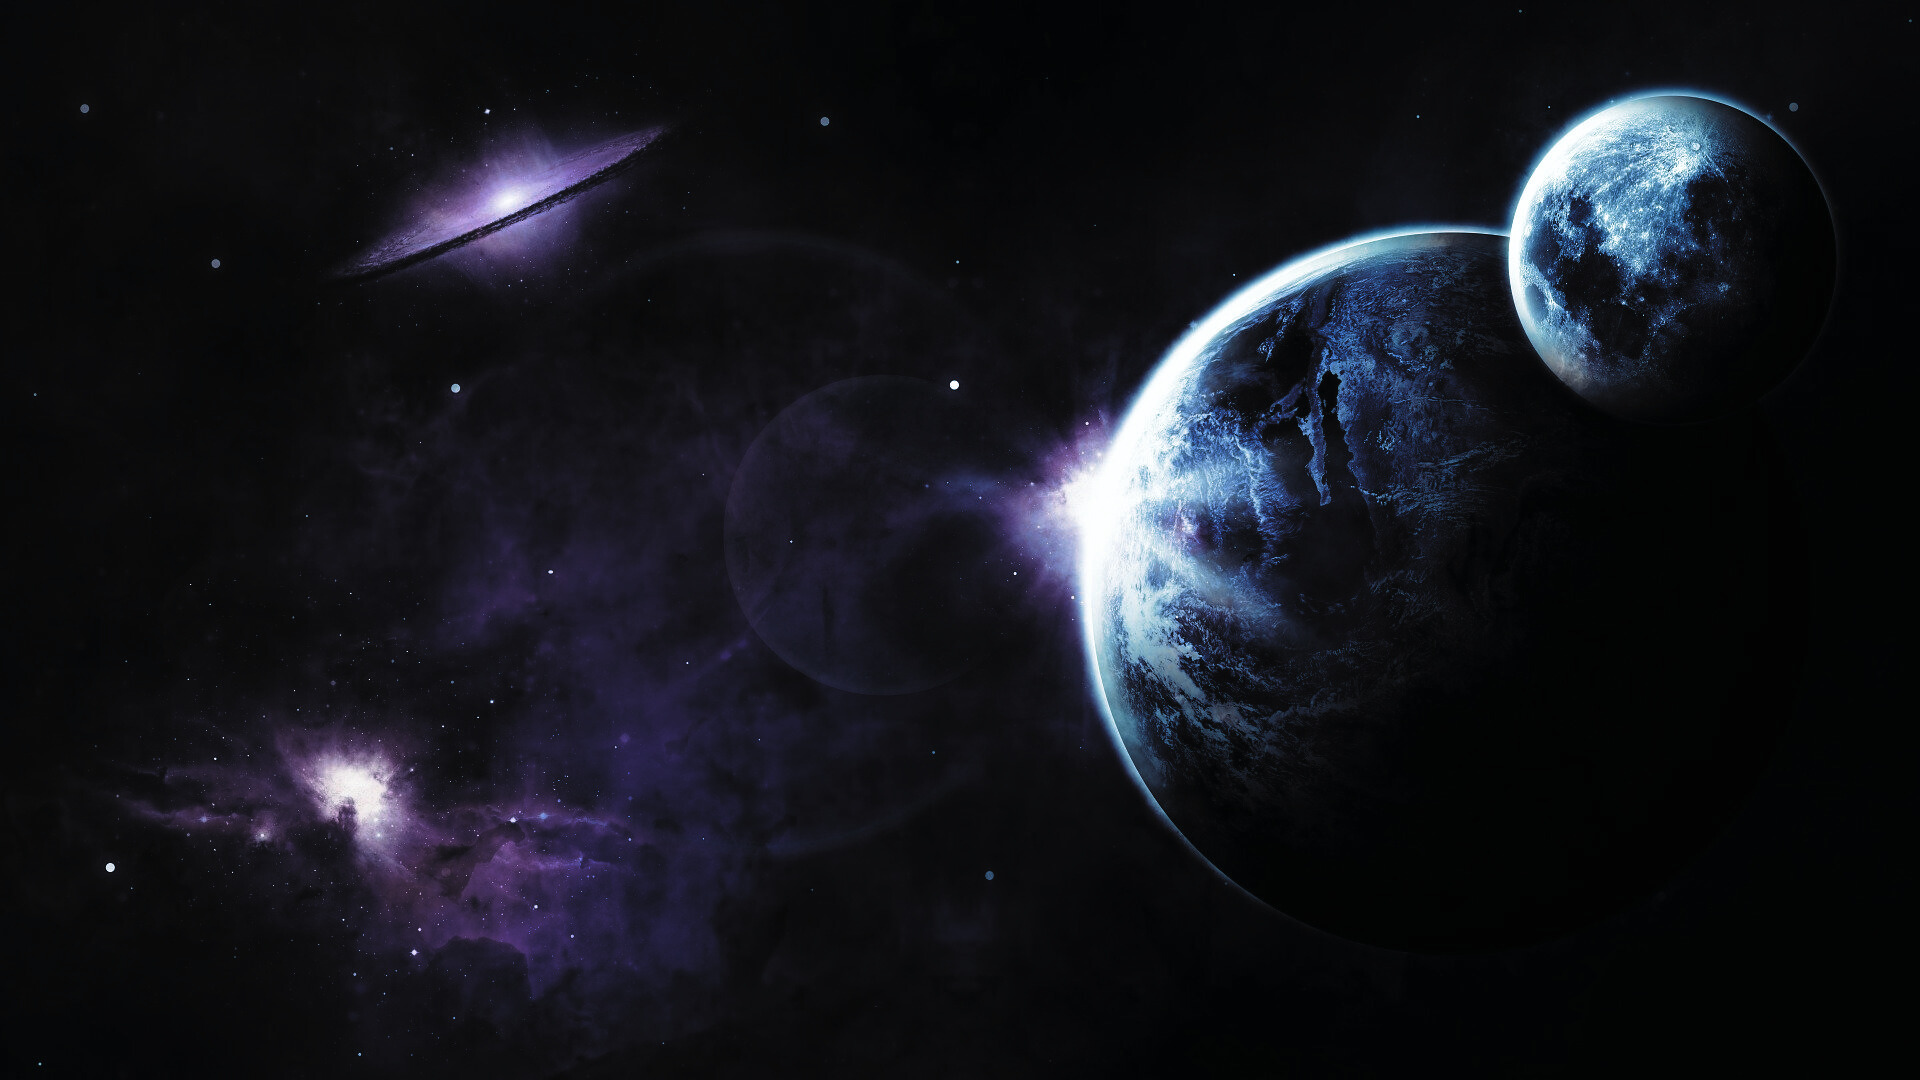
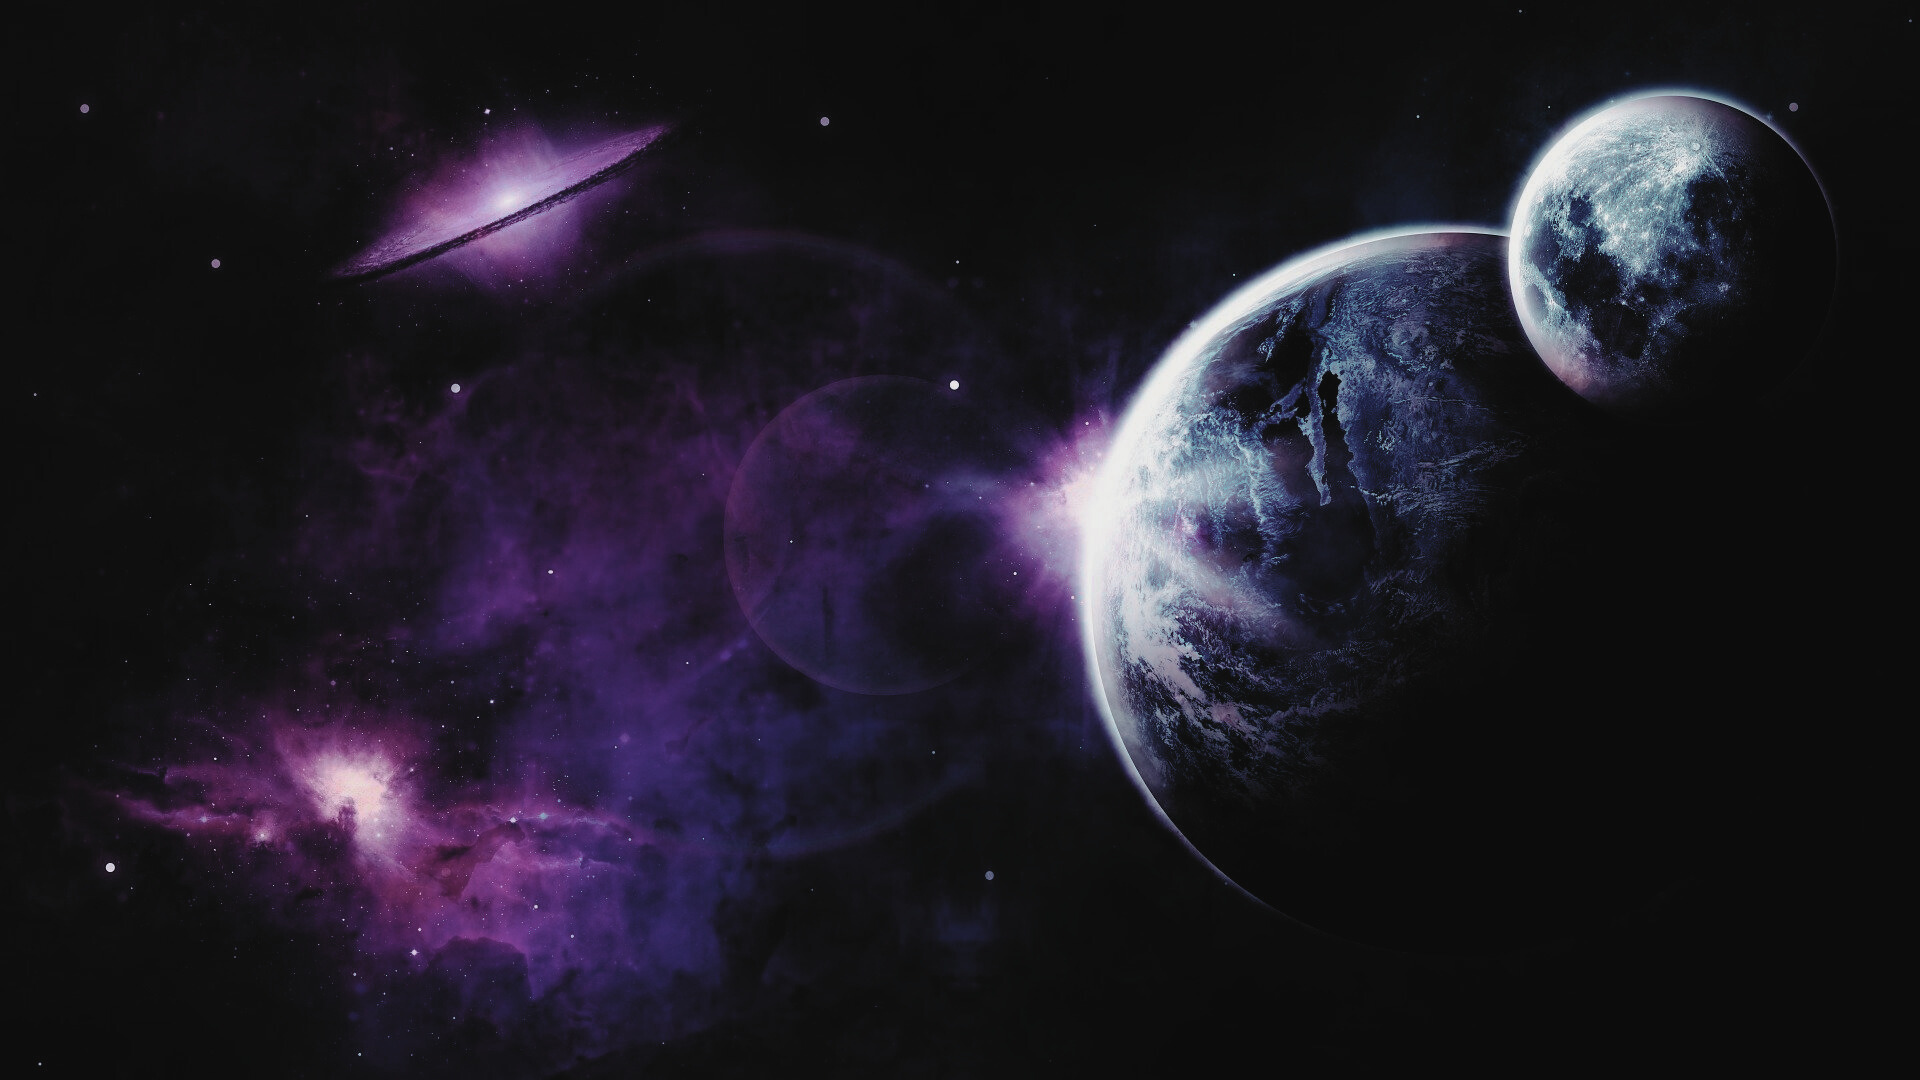
modify background

Changed region(s): [[0.0625, 0.0611, 0.9375, 0.9472], [0.1875, 0.0917, 0.3438, 0.275]]

diff --git a/src/App.css b/src/App.css
@@ -10,7 +10,7 @@ body{
   font-weight: 300;
   font-style: normal;
   cursor: default;
-background-image: url('./components/galaxy1.png');
+background-image: url('./components/galaxy.png');
 width: 100vw;
 height: 100vh;
 background-size: cover;
